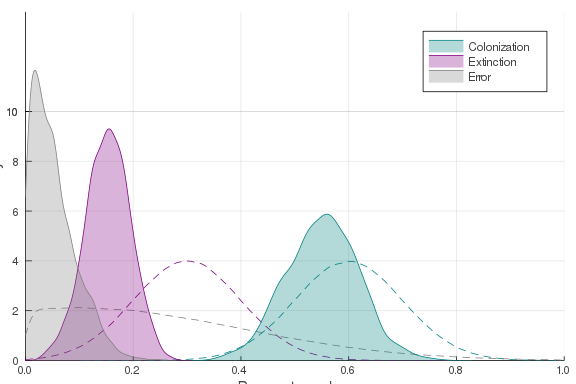
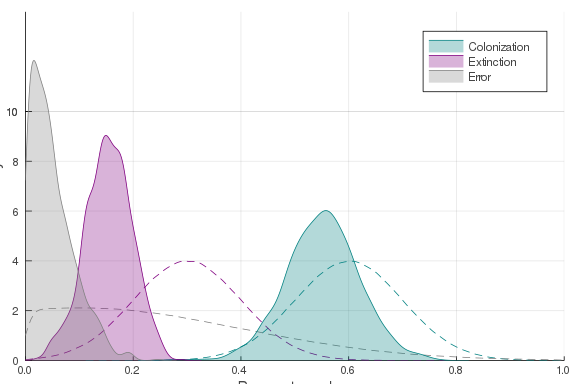
deploy: c9c6fdd00527a45c79d045cef7127d8e9721966d

diff --git a/capstones/genetic_algorithm/index.html b/capstones/genetic_algorithm/index.html
@@ -142,7 +142,7 @@ existing object.</p><div class=highlight><pre class=chroma><code class=language-
 <span class=n>initial_genome</span><span class=o></span> <span class=o>=</span> <span class=n>Genome</span><span class=o></span><span class=p>(</span><span class=mf>0.2</span><span class=p>,</span> <span class=mf>0.5</span><span class=p>)</span>
 <span class=n>change_both!</span><span class=o></span><span class=p>(</span><span class=n>initial_genome</span><span class=o></span><span class=p>)</span>
 <span class=n>initial_genome</span><span class=o></span>
-</code></pre></div><pre><code>ŷ = 0.199×x + 0.5
+</code></pre></div><pre><code>ŷ = 0.218×x + 0.507
 </code></pre><p>Let's now define a function to work on the actual problem:</p><div class=highlight><pre class=chroma><code class=language-julia data-lang=julia><span class=n>very_gradual_change!</span><span class=o></span> <span class=o>=</span> <span class=n>normal_error</span><span class=o></span><span class=p>(</span><span class=mf>1e-3</span><span class=p>,</span> <span class=mf>1e-3</span><span class=p>)</span>
 </code></pre></div><pre><code>(::getfield(Main.WeaveSandBox0, Symbol(&quot;#f#4&quot;)){Float64,Float64}) (generic 
 function with 1 method)
@@ -153,26 +153,26 @@ probably draw it from $\mathcal{N}(\mu=3, \sigma=1)$; the slope seems to be
 close to one but a little bit lower, so we can get it from
 $\mathcal{N}(\mu=0.75, \sigma=0.2)$:</p><div class=highlight><pre class=chroma><code class=language-julia data-lang=julia><span class=n>population</span><span class=o></span> <span class=o>=</span> <span class=p>[</span><span class=n>Genome</span><span class=o></span><span class=p>(</span><span class=n>rand</span><span class=o></span><span class=p>(</span><span class=n>Normal</span><span class=o></span><span class=p>(</span><span class=mf>0.75</span><span class=p>,</span><span class=mf>0.2</span><span class=p>)</span><span class=p>)</span><span class=p>,</span> <span class=n>rand</span><span class=o></span><span class=p>(</span><span class=n>Normal</span><span class=o></span><span class=p>(</span><span class=mi>3</span><span class=p>,</span><span class=mi>1</span><span class=p>)</span><span class=p>)</span><span class=p>)</span> <span class=k>for</span> <span class=n>i</span><span class=o></span> <span class=kp>in</span> <span class=mi>1</span><span class=o>:</span><span class=mi>500</span><span class=p>]</span>
 </code></pre></div><pre><code>500-element Array{Main.WeaveSandBox0.Genome,1}:
- ŷ = 0.791×x + 4.133
- ŷ = 0.942×x + 2.489
- ŷ = 1.084×x + 2.91 
- ŷ = 0.646×x + 2.931
- ŷ = 0.384×x + 0.777
- ŷ = 0.857×x + 0.989
- ŷ = 0.434×x + 3.151
- ŷ = 0.627×x + 2.276
- ŷ = 0.74×x + 3.351 
- ŷ = 0.721×x + 2.781
+ ŷ = 1.008×x + 3.903
+ ŷ = 0.936×x + 3.069
+ ŷ = 0.775×x + 1.619
+ ŷ = 0.492×x + 4.731
+ ŷ = 0.7×x + 0.67   
+ ŷ = 0.536×x + 1.683
+ ŷ = 0.867×x + 2.45 
+ ŷ = 0.387×x + 4.48 
+ ŷ = 0.87×x + 2.1   
+ ŷ = 0.854×x + 3.882
  ⋮                   
- ŷ = 0.607×x + 3.438
- ŷ = 1.174×x + 2.439
- ŷ = 0.912×x + 4.455
- ŷ = 0.632×x + 3.768
- ŷ = 0.679×x + 3.15 
- ŷ = 0.623×x + 3.456
- ŷ = 0.603×x + 2.968
- ŷ = 0.383×x + 2.186
- ŷ = 0.532×x + 3.463
+ ŷ = 0.834×x + 4.624
+ ŷ = 1.07×x + 2.079 
+ ŷ = 0.565×x + 3.275
+ ŷ = 0.209×x + 3.32 
+ ŷ = 0.595×x + 1.712
+ ŷ = 1.128×x + 3.798
+ ŷ = 0.738×x + 3.313
+ ŷ = 0.409×x + 2.603
+ ŷ = 0.567×x + 3.114
 </code></pre><div class=highlight><pre class=chroma><code class=language-julia data-lang=julia><span class=n>GA!</span><span class=o></span><span class=p>(</span><span class=n>population</span><span class=o></span><span class=p>,</span> <span class=n>fmr_fitness</span><span class=o></span><span class=p>,</span> <span class=n>very_gradual_change!</span><span class=o></span><span class=p>;</span> <span class=n>generations</span><span class=o></span><span class=o>=</span><span class=mi>10000</span><span class=p>)</span>
 </code></pre></div><p><strong><em>TODO</em></strong></p><div class=highlight><pre class=chroma><code class=language-julia data-lang=julia><span class=n>scatter</span><span class=o></span><span class=p>(</span><span class=mf>10.0</span><span class=o>.^</span><span class=n>rates</span><span class=o></span><span class=p>[</span><span class=o>:</span><span class=n>mass</span><span class=o></span><span class=p>]</span><span class=p>,</span> <span class=mf>10.0</span><span class=o>.^</span><span class=n>rates</span><span class=o></span><span class=p>[</span><span class=o>:</span><span class=n>fmr</span><span class=o></span><span class=p>]</span><span class=p>,</span> <span class=n>c</span><span class=o></span><span class=o>=</span><span class=o>:</span><span class=n>teal</span><span class=o></span><span class=p>,</span> <span class=n>leg</span><span class=o></span><span class=o>=</span><span class=kc>false</span><span class=p>,</span> <span class=n>msc</span><span class=o></span><span class=o>=</span><span class=o>:</span><span class=n>transparent</span><span class=o></span><span class=p>)</span>
 <span class=n>pred</span><span class=o></span> <span class=o>=</span> <span class=n>collect</span><span class=o></span><span class=p>(</span><span class=n>LinRange</span><span class=o></span><span class=p>(</span><span class=mf>10.0</span><span class=o>.^</span><span class=n>minimum</span><span class=o></span><span class=p>(</span><span class=n>rates</span><span class=o></span><span class=p>[</span><span class=o>:</span><span class=n>mass</span><span class=o></span><span class=p>]</span><span class=p>)</span><span class=p>,</span> <span class=mf>10.0</span><span class=o>.^</span><span class=n>maximum</span><span class=o></span><span class=p>(</span><span class=n>rates</span><span class=o></span><span class=p>[</span><span class=o>:</span><span class=n>mass</span><span class=o></span><span class=p>]</span><span class=p>)</span><span class=p>,</span> <span class=mi>100</span><span class=p>)</span><span class=p>)</span>
@@ -180,4 +180,4 @@ $\mathcal{N}(\mu=0.75, \sigma=0.2)$:</p><div class=highlight><pre class=chroma><
 <span class=n>plot!</span><span class=o></span><span class=p>(</span><span class=n>pred</span><span class=o></span><span class=p>,</span> <span class=mf>10.0</span><span class=o>.^</span><span class=n>ŷ</span><span class=o></span><span class=p>(</span><span class=n>population</span><span class=o></span><span class=p>[</span><span class=n>mostfit</span><span class=o></span><span class=p>]</span><span class=p>,</span> <span class=n>log10</span><span class=o></span><span class=o>.</span><span class=p>(</span><span class=n>pred</span><span class=o></span><span class=p>)</span><span class=p>)</span><span class=p>,</span> <span class=n>c</span><span class=o></span><span class=o>=</span><span class=o>:</span><span class=n>orange</span><span class=o></span><span class=p>,</span> <span class=n>lw</span><span class=o></span><span class=o>=</span><span class=mi>2</span><span class=p>,</span> <span class=n>ls</span><span class=o></span><span class=o>=</span><span class=o>:</span><span class=n>dash</span><span class=o></span><span class=p>)</span>
 <span class=n>xaxis!</span><span class=o></span><span class=p>(</span><span class=o>:</span><span class=n>log10</span><span class=o></span><span class=p>,</span> <span class=s>&#34;</span><span class=s>M</span><span class=s>a</span><span class=s>s</span><span class=s>s</span><span class=s> </span><span class=s>(</span><span class=s>k</span><span class=s>g</span><span class=s>)</span><span class=s>&#34;</span><span class=p>)</span>
 <span class=n>yaxis!</span><span class=o></span><span class=p>(</span><span class=o>:</span><span class=n>log10</span><span class=o></span><span class=p>,</span> <span class=s>&#34;</span><span class=s>F</span><span class=s>i</span><span class=s>e</span><span class=s>l</span><span class=s>d</span><span class=s> </span><span class=s>M</span><span class=s>e</span><span class=s>t</span><span class=s>a</span><span class=s>b</span><span class=s>o</span><span class=s>l</span><span class=s>i</span><span class=s>c</span><span class=s> </span><span class=s>R</span><span class=s>a</span><span class=s>t</span><span class=s>e</span><span class=s> </span><span class=s>(</span><span class=s>k</span><span class=s>j</span><span class=s> </span><span class=s>p</span><span class=s>e</span><span class=s>r</span><span class=s> </span><span class=s>d</span><span class=s>a</span><span class=s>y</span><span class=s>)</span><span class=s>&#34;</span><span class=p>)</span>
-</code></pre></div><figure><img src=../figures/genetic_algorithm_19_1.png><figcaption><h4>Relationship between field metabolic rate and mass - this is a neat log-log relationship, and so linear regression will give us the exponent.</h4></figcaption></figure><p>We can also look at the equation for the most fit genome: ŷ = 0.626×x + 2.968.</p></section><script src=/js/ui.js></script><script>mermaid.initialize({startOnLoad:true,theme:"neutral",curve:"basis"});</script></body></html>
+</code></pre></div><figure><img src=../figures/genetic_algorithm_19_1.png><figcaption><h4>Relationship between field metabolic rate and mass - this is a neat log-log relationship, and so linear regression will give us the exponent.</h4></figcaption></figure><p>We can also look at the equation for the most fit genome: ŷ = 0.655×x + 3.034.</p></section><script src=/js/ui.js></script><script>mermaid.initialize({startOnLoad:true,theme:"neutral",curve:"basis"});</script></body></html>

diff --git a/lessons/control_flow/index.html b/lessons/control_flow/index.html
@@ -183,11 +183,11 @@ truthiness of it, will print either <em>foo</em> or <em>bar</em>.</p><h2 id=navi
 understanding what exactly is in the <code>random_numbers</code> object. Let's display it
 again:</p><div class=highlight><pre class=chroma><code class=language-julia data-lang=julia><span class=n>random_numbers</span><span class=o></span>
 </code></pre></div><pre><code>5-element Array{Float64,1}:
- 0.4571513927514972  
- 0.24535150362292124 
- 0.7419718950622938  
- 0.041385767210743385
- 0.7550185039443158
+ 0.3800367389197483 
+ 0.40802742078841914
+ 0.5835415699729212 
+ 0.16717319999837965
+ 0.9797955951515356
 </code></pre><p>This type of object is an <em>array</em>; it may help to think of an array as a shelf,
 in which every compartment can store one thing. You can have shelves with a
 single row, a single column, or both rows and columns. In <em>Julia</em>, arrays are by
@@ -203,31 +203,31 @@ has 5 positions in its first <em>dimension</em>, and no positions in its second
 dimension: this is a column with five rows. We can also access any <em>position</em> we
 like; this is akin to asking &ldquo;computer, give me the content of the 1st
 compartment&rdquo;:</p><div class=highlight><pre class=chroma><code class=language-julia data-lang=julia><span class=n>random_numbers</span><span class=o></span><span class=p>[</span><span class=mi>1</span><span class=p>]</span>
-</code></pre></div><pre><code>0.4571513927514972
+</code></pre></div><pre><code>0.3800367389197483
 </code></pre><p>Some languages, like <em>Julia</em>, <em>R</em>, and <em>MatLab</em>, start counting from 1, but
 <em>python</em> and <em>C</em> start counting from 0. These are conventions that each language
 adopted. Everyone thinks the other camp is wrong, and it's one of these
 surprisingly bitter (considering how utterly unimportant they are) divides in
 the computer science world.</p><p>We can *also ask what the <em>last</em> position contains:</p><div class=highlight><pre class=chroma><code class=language-julia data-lang=julia><span class=n>random_numbers</span><span class=o></span><span class=p>[</span><span class=n>length</span><span class=o></span><span class=p>(</span><span class=n>random_numbers</span><span class=o></span><span class=p>)</span><span class=p>]</span>
-</code></pre></div><pre><code>0.7550185039443158
+</code></pre></div><pre><code>0.9797955951515356
 </code></pre><p>The way to read this instruction is as follows: get me the element at position
 <code>length(random_numbers)</code>. We know that the length of <code>random_numbers</code> is <code>5</code>, so
 this will return the 5th position. <em>Julia</em> has a quite pretty way of getting the
 last element of most collections:</p><div class=highlight><pre class=chroma><code class=language-julia data-lang=julia><span class=n>random_numbers</span><span class=o></span><span class=p>[</span><span class=k>end</span><span class=p>]</span>
-</code></pre></div><pre><code>0.7550185039443158
+</code></pre></div><pre><code>0.9797955951515356
 </code></pre><p>An extra bit of <a href=https://en.wikipedia.org/wiki/Syntactic_sugar>syntactic sugar</a> in <em>Julia</em> are the two following
 functions:</p><div class=highlight><pre class=chroma><code class=language-julia data-lang=julia><span class=n>first</span><span class=o></span><span class=p>(</span><span class=n>random_numbers</span><span class=o></span><span class=p>)</span>
-</code></pre></div><pre><code>0.4571513927514972
+</code></pre></div><pre><code>0.3800367389197483
 </code></pre><div class=highlight><pre class=chroma><code class=language-julia data-lang=julia><span class=n>last</span><span class=o></span><span class=p>(</span><span class=n>random_numbers</span><span class=o></span><span class=p>)</span>
-</code></pre></div><pre><code>0.7550185039443158
+</code></pre></div><pre><code>0.9797955951515356
 </code></pre><p>Being able to access elements by their position can be very useful. Our
 <code>random_numbers</code> array has five elements, and we only want to print the
 odd-numbered ones. One way to do this would be to call then individually:</p><div class=highlight><pre class=chroma><code class=language-julia data-lang=julia><span class=n>println</span><span class=o></span><span class=p>(</span><span class=n>random_numbers</span><span class=o></span><span class=p>[</span><span class=mi>1</span><span class=p>]</span><span class=p>)</span>
-</code></pre></div><pre><code>0.4571513927514972
+</code></pre></div><pre><code>0.3800367389197483
 </code></pre><div class=highlight><pre class=chroma><code class=language-julia data-lang=julia><span class=n>println</span><span class=o></span><span class=p>(</span><span class=n>random_numbers</span><span class=o></span><span class=p>[</span><span class=mi>3</span><span class=p>]</span><span class=p>)</span>
-</code></pre></div><pre><code>0.7419718950622938
+</code></pre></div><pre><code>0.5835415699729212
 </code></pre><div class=highlight><pre class=chroma><code class=language-julia data-lang=julia><span class=n>println</span><span class=o></span><span class=p>(</span><span class=n>random_numbers</span><span class=o></span><span class=p>[</span><span class=mi>5</span><span class=p>]</span><span class=p>)</span>
-</code></pre></div><pre><code>0.7550185039443158
+</code></pre></div><pre><code>0.9797955951515356
 </code></pre><p>Of course, this is only reasonable if we have a very small number of things to
 do. But what if we want to iterate over hundreds, or thousands of values? We
 need a more efficient strategy.</p><h2 id=iterating-over-values>Iterating over values</h2><p>We know that a number is even if the statement <code>x % 2 == 0</code>, where <code>%</code> is
@@ -237,9 +237,9 @@ integer division by two is <em>not</em> 0: <code>x % 2 != 0</code>.</p><p>Let's 
     <span class=n>println</span><span class=o></span><span class=p>(</span><span class=s>&#34;</span><span class=s>P</span><span class=s>o</span><span class=s>s</span><span class=s>i</span><span class=s>t</span><span class=s>i</span><span class=s>o</span><span class=s>n</span><span class=s> </span><span class=si>$i</span><span class=s>:</span><span class=se>\t</span><span class=s>&#34;</span><span class=p>,</span> <span class=n>random_numbers</span><span class=o></span><span class=p>[</span><span class=n>i</span><span class=o></span><span class=p>]</span><span class=p>)</span>
   <span class=k>end</span>
 <span class=k>end</span>
-</code></pre></div><pre><code>Position 1:	0.4571513927514972
-Position 3:	0.7419718950622938
-Position 5:	0.7550185039443158
+</code></pre></div><pre><code>Position 1:	0.3800367389197483
+Position 3:	0.5835415699729212
+Position 5:	0.9797955951515356
 </code></pre><p>We can &ldquo;read&rdquo; this snippet (a <em>snippet</em> is the affectionate name given to a
 litle chunk of code; a <em>chunk</em> is a much uglier name for &ldquo;a piece&rdquo;) as</p><pre><code>there is a variable i
 it will take every value between 1 and the length of the ranom_numbers array
@@ -300,7 +300,7 @@ run it for a while (<em>GET IT?</em>) to get a sample with an average of about 0
 <span class=k>end</span>
 
 <span class=n>println</span><span class=o></span><span class=p>(</span><span class=s>&#34;</span><span class=s>μ</span><span class=s>:</span><span class=s> </span><span class=si>$</span><span class=p>(</span><span class=n>round</span><span class=o></span><span class=p>(</span><span class=n>mean</span><span class=o></span><span class=p>(</span><span class=n>my_collection</span><span class=o></span><span class=p>)</span><span class=p>;</span> <span class=n>digits</span><span class=o></span><span class=o>=</span><span class=mi>4</span><span class=p>)</span><span class=p>)</span><span class=s>&#34;</span><span class=p>)</span>
-</code></pre></div><pre><code>μ: 0.5001
+</code></pre></div><pre><code>μ: 0.5007
 </code></pre><p>The instruction just after <code>while</code>, <em>i.e.</em></p><pre><code>!(0.499 ≤ mean(my_collection) ≤ 0.501)
 </code></pre><p>is worth thinking about. It is a very compact way of running multiple tests at
 once: the mean needs to be larger than 0.499, yet smaller than 0.501, and we

diff --git a/lessons/writing_functions/index.html b/lessons/writing_functions/index.html
@@ -30,16 +30,16 @@ $(0,2)$ will be save us almost four keystrokes!</p><p>After the following lesson
 <span class=k>end</span>
 <span class=n>darts</span><span class=o></span>
 </code></pre></div><pre><code>10-element Array{Any,1}:
- (1.8631383255350324, 0.39128149975536664)  
- (0.8368228127794923, 1.6967764456419774)   
- (0.018272543726511437, 0.26035951393392454)
- (0.9795065295028511, 1.4666163539332637)   
- (1.968679846972842, 0.31351595499124363)   
- (0.16790388920037103, 0.36723776173869815) 
- (0.5988321237113086, 0.8624815972903299)   
- (0.700500964062726, 1.4677631193481804)    
- (0.6009770856266212, 0.13983055702040748)  
- (1.357118759794694, 1.0233894093694174)
+ (1.8442657363717436, 0.825206884040675)  
+ (0.7965532218069886, 1.6178737749402754) 
+ (0.329417538237069, 0.5409562520360076)  
+ (1.1325984031360874, 0.07385200008438808)
+ (0.08165415144696553, 1.5907719871165655)
+ (1.6381492290056903, 1.238050075094498)  
+ (0.41516829619097617, 0.4519320185126716)
+ (1.7254026751965257, 1.631503939903003)  
+ (0.8015966367869196, 0.6497063287621221) 
+ (1.8528491941191612, 0.6343020338344605)
 </code></pre><p>This introduces a few new notations. The <code>darts = []</code> instruction creates an
 <em>empty</em> array. This is not the optimal way of approaching this problem, but
 remember the UNIX philosophy: we'll rewrite this awkard part later. Then we use
@@ -210,7 +210,7 @@ screens to see what the function does). Because we have named our functions
 explicitely, the code is also easy to understand. In the next lesson, we will
 see that modular code is easy to <em>test</em> (and to debug).</p><p>So, how good is our estimate?</p><div class=highlight><pre class=chroma><code class=language-julia data-lang=julia><span class=n>estimate</span><span class=o></span> <span class=o>=</span> <span class=n>estimate_pi</span><span class=o></span><span class=p>(</span><span class=mi>100000</span><span class=p>)</span>
 <span class=n>println</span><span class=o></span><span class=p>(</span><span class=s>&#34;</span><span class=s>E</span><span class=s>s</span><span class=s>t</span><span class=s>i</span><span class=s>m</span><span class=s>a</span><span class=s>t</span><span class=s>e</span><span class=s>:</span><span class=s> </span><span class=si>$</span><span class=p>(</span><span class=n>estimate</span><span class=o></span><span class=p>)</span><span class=se>\t</span><span class=se>\t</span><span class=s>π</span><span class=s>:</span><span class=s> </span><span class=si>$</span><span class=p>(</span><span class=nb>π</span><span class=o>+</span><span class=mi>0</span><span class=p>)</span><span class=s>&#34;</span><span class=p>)</span>
-</code></pre></div><pre><code>Estimate: 3.13924		π: 3.141592653589793
+</code></pre></div><pre><code>Estimate: 3.13152		π: 3.141592653589793
 </code></pre><h2 id=keyword-arguments-and-default-values>Keyword arguments and default values</h2><p>In all functions thus far, we <em>had</em> to give all the values of all arguments.
 Sometimes, it make sense to have some arguments take a default value, which we
 can change when we need to, but will remain constant otherwise.</p><div class="callout warning">Giving default values can save some time, but it means you don't need to <em>think</em>
@@ -253,7 +253,7 @@ longer than if I has asked you what the sum of 0.0 and 1.0 is. Is it true for
 the computer?</p><div class=highlight><pre class=chroma><code class=language-julia data-lang=julia><span class=n>time_int_and_float</span><span class=o></span> <span class=o>=</span> <span class=nd>@elapsed</span><span class=o></span> <span class=mi>0</span> <span class=o>+</span> <span class=mf>1.0</span>
 <span class=n>time_float_and_float</span><span class=o></span> <span class=o>=</span> <span class=nd>@elapsed</span><span class=o></span> <span class=mf>0.0</span> <span class=o>+</span> <span class=mf>1.0</span>
 <span class=n>println</span><span class=o></span><span class=p>(</span><span class=s>&#34;</span><span class=s>I</span><span class=s>t</span><span class=s> </span><span class=s>t</span><span class=s>a</span><span class=s>k</span><span class=s>e</span><span class=s>s</span><span class=s> </span><span class=si>$</span><span class=p>(</span><span class=n>round</span><span class=o></span><span class=p>(</span><span class=n>time_int_and_float</span><span class=o></span><span class=o>/</span><span class=n>time_float_and_float</span><span class=o></span><span class=p>;</span> <span class=n>digits</span><span class=o></span><span class=o>=</span><span class=mi>2</span><span class=p>)</span><span class=p>)</span><span class=s> </span><span class=s>t</span><span class=s>i</span><span class=s>m</span><span class=s>e</span><span class=s>s</span><span class=s> </span><span class=s>l</span><span class=s>o</span><span class=s>n</span><span class=s>g</span><span class=s>e</span><span class=s>r</span><span class=s> </span><span class=s>t</span><span class=s>o</span><span class=s> </span><span class=s>w</span><span class=s>o</span><span class=s>r</span><span class=s>k</span><span class=s> </span><span class=s>w</span><span class=s>i</span><span class=s>t</span><span class=s>h</span><span class=s> </span><span class=s>d</span><span class=s>i</span><span class=s>f</span><span class=s>f</span><span class=s>e</span><span class=s>r</span><span class=s>e</span><span class=s>n</span><span class=s>t</span><span class=s> </span><span class=s>t</span><span class=s>y</span><span class=s>p</span><span class=s>e</span><span class=s>s</span><span class=s>!</span><span class=s>&#34;</span><span class=p>)</span>
-</code></pre></div><pre><code>It takes 1.0 times longer to work with different types!
+</code></pre></div><pre><code>It takes 1.73 times longer to work with different types!
 </code></pre><p>The exact number may vary, but on my machine, it takes about 1.5 times longer to
 do the operation with different types. Why is that?</p><p>It is because the computer needs to &ldquo;rethink&rdquo; about one of these numbers (<em>i.e.</em>
 to change <code>0</code> in <code>0.0</code>, or <code>1.0</code> in <code>1</code>), before it can do the actual operation.

diff --git a/capstones/abc/index.html b/capstones/abc/index.html
@@ -11,16 +11,16 @@ the previous article is highly recommended.</p><p>We will rely on a few packages
 </code></pre></div><p>Let us now imagine an island. It is a small island, no more than a few meters in
 diameter, in the Florida keys. Every year, for 20 years, a few biologists comb
 through the island, to figure out whether or not <em>Eurycotis floridana</em> is
-present or absent. This results in a timeseries, like this:</p><pre><code>Year 1	absent
+present or absent. This results in a timeseries, like this:</p><pre><code>Year 1	present
 Year 2	absent
-Year 3	absent
-Year 4	absent
+Year 3	present
+Year 4	present
 Year 5	absent
 Year 6	absent
-Year 7	present
+Year 7	absent
 Year 8	present
-Year 9	absent
-Year 10	absent
+Year 9	present
+Year 10	present
 </code></pre><p>To begin with, let us see how we can model the presence/absence of this species.
 We will make two assumptions. First, the biological process here can be
 represented by modeling the probabilities of <em>transition</em>, <em>i.e.</em> the chance of
@@ -112,8 +112,8 @@ with parameters $(e=0.2, c=0.6, m=0.1)$, and get the summary statistics:</p><div
    <span class=p>[</span><span class=n>occupancy</span><span class=o></span><span class=p>,</span> <span class=n>transitions</span><span class=o></span><span class=p>]</span> <span class=c># list of things to measure</span>
    <span class=p>)</span>
 </code></pre></div><pre><code>2-element Array{Float64,1}:
- 0.69               
- 0.40703517587939697
+ 0.68              
+ 0.3768844221105528
 </code></pre><p>At this point, we need empirical data to feed the model. Let's say that over
 twenty years, the species has been observed from year 4 to 12, then 14 to 15,
 and finally from year 17 to 20. We can write this as:</p><div class=highlight><pre class=chroma><code class=language-julia data-lang=julia><span class=n>empirical_data</span><span class=o></span> <span class=o>=</span> <span class=n>zeros</span><span class=o></span><span class=p>(</span><span class=kt>Bool</span><span class=p>,</span> <span class=mi>20</span><span class=p>)</span>
@@ -186,7 +186,7 @@ programming exercise.</div><div class=highlight><pre class=chroma><code class=la
 
 <span class=n>xaxis!</span><span class=o></span><span class=p>(</span><span class=s>&#34;</span><span class=s>P</span><span class=s>a</span><span class=s>r</span><span class=s>a</span><span class=s>m</span><span class=s>e</span><span class=s>t</span><span class=s>e</span><span class=s>r</span><span class=s> </span><span class=s>v</span><span class=s>a</span><span class=s>l</span><span class=s>u</span><span class=s>e</span><span class=s>&#34;</span><span class=p>,</span> <span class=p>(</span><span class=mi>0</span><span class=p>,</span><span class=mi>1</span><span class=p>)</span><span class=p>)</span>
 <span class=n>yaxis!</span><span class=o></span><span class=p>(</span><span class=s>&#34;</span><span class=s>D</span><span class=s>e</span><span class=s>n</span><span class=s>s</span><span class=s>i</span><span class=s>t</span><span class=s>y</span><span class=s>&#34;</span><span class=p>,</span> <span class=p>(</span><span class=mi>0</span><span class=p>,</span> <span class=mi>14</span><span class=p>)</span><span class=p>)</span>
-</code></pre></div><figure><img src=../figures/abc_15_1.png><figcaption><h4>Posterior distributions (shaded) and the corresponding priors (dashed) for the three parameters in the model.</h4></figcaption></figure><p>To summarize, we can now extract the values of the different parameters:</p><table><thead><tr><th align=center></th><th align=left>meaning</th><th align=right>mean</th><th align=right>standard deviation</th></tr></thead><tbody><tr><td align=center>$c$</td><td align=left>Colonization rate</td><td align=right>0.551</td><td align=right>0.067</td></tr><tr><td align=center>$e$</td><td align=left>Extinction rate</td><td align=right>0.153</td><td align=right>0.041</td></tr><tr><td align=center>$m$</td><td align=left>Measurement error rate</td><td align=right>0.052</td><td align=right>0.041</td></tr></tbody></table><p>Done! One of the strength of ABC is that we can now <em>generate</em> datasets, using
+</code></pre></div><figure><img src=../figures/abc_15_1.png><figcaption><h4>Posterior distributions (shaded) and the corresponding priors (dashed) for the three parameters in the model.</h4></figcaption></figure><p>To summarize, we can now extract the values of the different parameters:</p><table><thead><tr><th align=center></th><th align=left>meaning</th><th align=right>mean</th><th align=right>standard deviation</th></tr></thead><tbody><tr><td align=center>$c$</td><td align=left>Colonization rate</td><td align=right>0.551</td><td align=right>0.068</td></tr><tr><td align=center>$e$</td><td align=left>Extinction rate</td><td align=right>0.154</td><td align=right>0.043</td></tr><tr><td align=center>$m$</td><td align=left>Measurement error rate</td><td align=right>0.05</td><td align=right>0.04</td></tr></tbody></table><p>Done! One of the strength of ABC is that we can now <em>generate</em> datasets, using
 our original model for simulation. And because we know the measurement error
 rate, we can also correct these datasets to describe the data <em>generation</em>
 process (the actual presence/absence of the species) as opposed to the data

diff --git a/machinelearning/naivebayes/index.html b/machinelearning/naivebayes/index.html
@@ -25,13 +25,12 @@ coyote or a roadrunner:</p><div class=highlight><pre class=chroma><code class=la
 will adhere to its notation here. In short, given an array $\mathbf{x}$ of
 observations of multiple features, the probability ($p(C_k | x)$) that this
 sample belongs to the class $C_k$ is <em>proportional</em> to $p(C_k) \prod p(x_i |
-C_k)$.
-We can multiply these probabilities together because Naive Bayes classification makes the
-assumption of independance between features. This is precisely why we say that this
-classifier is &lsquo;naive&rsquo;.
-Further, we can get the class to which the sample should be assigned
-using $\hat y = \text{argmax}_{k \in K} p(C_k) \prod p(x_i | C_k)$ - the class
-that is the most probable is taken as the guess.</p><p>Calculating $p(x_i | C_k)$ assumes that we know the distribution of the values
+C_k)$. We can multiply these probabilities together because Naive Bayes
+classification makes the assumption of independance between features. This is
+precisely why we say that this classifier is &lsquo;naive&rsquo;. Further, we can get the
+class to which the sample should be assigned using $\hat y = \text{argmax}_{k
+\in K} p(C_k) \prod p(x_i | C_k)$ - the class that is the most probable is taken
+as the guess.</p><p>Calculating $p(x_i | C_k)$ assumes that we know the distribution of the values
 of the <em>i</em>-th variable in class $C_k$, which is not necessarily true. In this
 example we will assume that all we know for sure is the average and standard
 deviation, meaning that the distribution we will use should be a normal

diff --git a/primers/advanced_control_flow/index.html b/primers/advanced_control_flow/index.html
@@ -32,13 +32,13 @@ smaller than 1/3:</p><div class=highlight><pre class=chroma><code class=language
   <span class=n>r</span><span class=o></span> <span class=o>≥</span> <span class=mi>1</span><span class=o>/</span><span class=mi>3</span> <span class=o>||</span> <span class=k>continue</span>
   <span class=n>println</span><span class=o></span><span class=p>(</span><span class=n>round</span><span class=o></span><span class=p>(</span><span class=n>r</span><span class=o></span><span class=p>;</span> <span class=n>digits</span><span class=o></span><span class=o>=</span><span class=mi>2</span><span class=p>)</span><span class=p>)</span>
 <span class=k>end</span>
-</code></pre></div><pre><code>0.97
+</code></pre></div><pre><code>0.57
+0.49
 0.99
-0.6
-0.5
-0.7
-0.98
-0.88
+0.65
+0.64
+0.71
+0.75
 </code></pre><p>In short, <code>continue</code> will <em>skip ahead</em> to the next element in the iteration.
 This can be very important to avoid performing operations on objects that are
 not relevant.</p></section><script src=/js/ui.js></script><script>mermaid.initialize({startOnLoad:true,theme:"neutral",curve:"basis"});</script></body></html>

diff --git a/machinelearning/index.html b/machinelearning/index.html
@@ -17,7 +17,8 @@ package-specific implementations.</p></section><section class=resource><h1><a hr
 <span class="status draft">draft</span></div><div class="contributors listicle"><i class="far fa-user-circle"></i><b>Contributors:</b>
 <span class=contributor><a href=http://github.com/tpoisot/ target=_blank>Timothée Poisot</a></span>
 <span class=contributor><a href=http://github.com/graciellehigino/ target=_blank>Gracielle Higino</a></span>
-<span class=contributor><a href=http://github.com/gabrieldansereau/ target=_blank>Gabriel Dansereau</a></span></div><div class="keywords listicle"><i class="fas fa-tags fa-fw"></i><b>Key concepts:</b>
+<span class=contributor><a href=http://github.com/gabrieldansereau/ target=_blank>Gabriel Dansereau</a></span>
+<span class=contributor><a href=http://github.com/francisbanville/ target=_blank>Francis Banville</a></span></div><div class="keywords listicle"><i class="fas fa-tags fa-fw"></i><b>Key concepts:</b>
 <span class="keyword listicleitem">control flow</span>
 <span class="keyword listicleitem">working with files</span>
 <span class="keyword listicleitem">iteration</span>

diff --git a/concepts/control-flow/index.html b/concepts/control-flow/index.html
@@ -25,7 +25,8 @@
 <span class="status draft">draft</span></div><div class="contributors listicle"><i class="far fa-user-circle"></i><b>Contributors:</b>
 <span class=contributor><a href=http://github.com/tpoisot/ target=_blank>Timothée Poisot</a></span>
 <span class=contributor><a href=http://github.com/graciellehigino/ target=_blank>Gracielle Higino</a></span>
-<span class=contributor><a href=http://github.com/gabrieldansereau/ target=_blank>Gabriel Dansereau</a></span></div><div class="keywords listicle"><i class="fas fa-tags fa-fw"></i><b>Key concepts:</b>
+<span class=contributor><a href=http://github.com/gabrieldansereau/ target=_blank>Gabriel Dansereau</a></span>
+<span class=contributor><a href=http://github.com/francisbanville/ target=_blank>Francis Banville</a></span></div><div class="keywords listicle"><i class="fas fa-tags fa-fw"></i><b>Key concepts:</b>
 <span class="keyword listicleitem">control flow</span>
 <span class="keyword listicleitem">working with files</span>
 <span class="keyword listicleitem">iteration</span>

diff --git a/concepts/working-with-files/index.html b/concepts/working-with-files/index.html
@@ -11,7 +11,8 @@
 <span class="status draft">draft</span></div><div class="contributors listicle"><i class="far fa-user-circle"></i><b>Contributors:</b>
 <span class=contributor><a href=http://github.com/tpoisot/ target=_blank>Timothée Poisot</a></span>
 <span class=contributor><a href=http://github.com/graciellehigino/ target=_blank>Gracielle Higino</a></span>
-<span class=contributor><a href=http://github.com/gabrieldansereau/ target=_blank>Gabriel Dansereau</a></span></div><div class="keywords listicle"><i class="fas fa-tags fa-fw"></i><b>Key concepts:</b>
+<span class=contributor><a href=http://github.com/gabrieldansereau/ target=_blank>Gabriel Dansereau</a></span>
+<span class=contributor><a href=http://github.com/francisbanville/ target=_blank>Francis Banville</a></span></div><div class="keywords listicle"><i class="fas fa-tags fa-fw"></i><b>Key concepts:</b>
 <span class="keyword listicleitem">control flow</span>
 <span class="keyword listicleitem">working with files</span>
 <span class="keyword listicleitem">iteration</span>

diff --git a/packages/csv/index.html b/packages/csv/index.html
@@ -20,7 +20,8 @@
 <span class="status draft">draft</span></div><div class="contributors listicle"><i class="far fa-user-circle"></i><b>Contributors:</b>
 <span class=contributor><a href=http://github.com/tpoisot/ target=_blank>Timothée Poisot</a></span>
 <span class=contributor><a href=http://github.com/graciellehigino/ target=_blank>Gracielle Higino</a></span>
-<span class=contributor><a href=http://github.com/gabrieldansereau/ target=_blank>Gabriel Dansereau</a></span></div><div class="keywords listicle"><i class="fas fa-tags fa-fw"></i><b>Key concepts:</b>
+<span class=contributor><a href=http://github.com/gabrieldansereau/ target=_blank>Gabriel Dansereau</a></span>
+<span class=contributor><a href=http://github.com/francisbanville/ target=_blank>Francis Banville</a></span></div><div class="keywords listicle"><i class="fas fa-tags fa-fw"></i><b>Key concepts:</b>
 <span class="keyword listicleitem">control flow</span>
 <span class="keyword listicleitem">working with files</span>
 <span class="keyword listicleitem">iteration</span>

diff --git a/packages/dataframes/index.html b/packages/dataframes/index.html
@@ -20,7 +20,8 @@
 <span class="status draft">draft</span></div><div class="contributors listicle"><i class="far fa-user-circle"></i><b>Contributors:</b>
 <span class=contributor><a href=http://github.com/tpoisot/ target=_blank>Timothée Poisot</a></span>
 <span class=contributor><a href=http://github.com/graciellehigino/ target=_blank>Gracielle Higino</a></span>
-<span class=contributor><a href=http://github.com/gabrieldansereau/ target=_blank>Gabriel Dansereau</a></span></div><div class="keywords listicle"><i class="fas fa-tags fa-fw"></i><b>Key concepts:</b>
+<span class=contributor><a href=http://github.com/gabrieldansereau/ target=_blank>Gabriel Dansereau</a></span>
+<span class=contributor><a href=http://github.com/francisbanville/ target=_blank>Francis Banville</a></span></div><div class="keywords listicle"><i class="fas fa-tags fa-fw"></i><b>Key concepts:</b>
 <span class="keyword listicleitem">control flow</span>
 <span class="keyword listicleitem">working with files</span>
 <span class="keyword listicleitem">iteration</span>

diff --git a/packages/random/index.html b/packages/random/index.html
@@ -11,7 +11,8 @@
 <span class="status draft">draft</span></div><div class="contributors listicle"><i class="far fa-user-circle"></i><b>Contributors:</b>
 <span class=contributor><a href=http://github.com/tpoisot/ target=_blank>Timothée Poisot</a></span>
 <span class=contributor><a href=http://github.com/graciellehigino/ target=_blank>Gracielle Higino</a></span>
-<span class=contributor><a href=http://github.com/gabrieldansereau/ target=_blank>Gabriel Dansereau</a></span></div><div class="keywords listicle"><i class="fas fa-tags fa-fw"></i><b>Key concepts:</b>
+<span class=contributor><a href=http://github.com/gabrieldansereau/ target=_blank>Gabriel Dansereau</a></span>
+<span class=contributor><a href=http://github.com/francisbanville/ target=_blank>Francis Banville</a></span></div><div class="keywords listicle"><i class="fas fa-tags fa-fw"></i><b>Key concepts:</b>
 <span class="keyword listicleitem">control flow</span>
 <span class="keyword listicleitem">working with files</span>
 <span class="keyword listicleitem">iteration</span>
